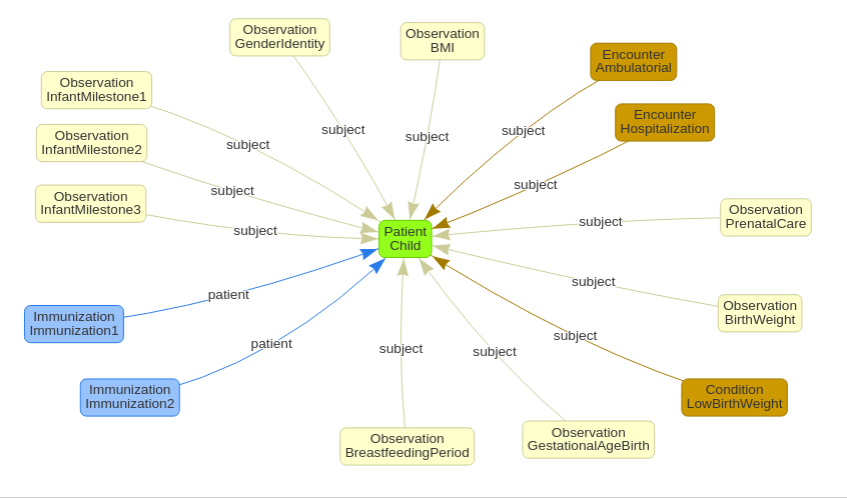
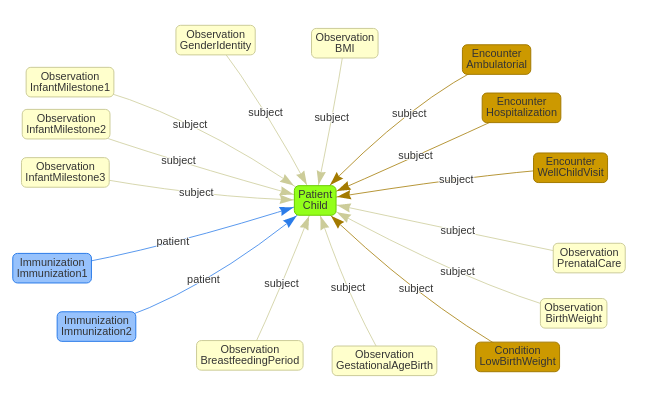
Add Encounter as a FHIR Resource to Developmental Milestones

diff --git a/central_database/docs/indicators.rst b/central_database/docs/indicators.rst
@@ -8,36 +8,38 @@ The table below relates the indicators to typical health-related data sources.
 The data required for the calculation of the indicators are mapped to HL7 FHIR Resources to ensure a minimal interoperability between health systems.
 
 
-+------------------------------------+----------------------------------------------------------------------+-------------------------+--------------------------------------------------------------------------------------------------------------------------------------------------------------------------------------------------------------+
-| Indicator                          |                         Potential data source                        | Potential FHIR Resource | Key FHIR elements                                                                                                                                                                                            |
-+====================================+======================================================================+=========================+==========================================+===================================================================================================================================================================+
++------------------------------------+----------------------------------------------------------------------+--------------------------------------------------------------------+-------------------------------------------------------------------------------------------------------------------------------------------------------------------+
+| Indicator                          |                         Potential data source                        | Potential FHIR Resource                                            | Key FHIR elements                                                                                                                                                 |
++====================================+======================================================================+====================================================================+===================================================================================================================================================================+
 | Prenatal care incomplete or absent | Mother's appointments, exams, immunizations, nutritional supplements | `Observation <https://www.hl7.org/fhir/observation.html>`_         | category: social-history, code: 1031000119109 (SNOMED, Insufficient prenatal care)                                                                                |
-|                                    |                                                                      +-------------------------+------------------------------------------+-------------------------------------------------------------------------------------------------------------------------------------------------------------------+
+|                                    |                                                                      +--------------------------------------------------------------------+-------------------------------------------------------------------------------------------------------------------------------------------------------------------+
 |                                    |                                                                      | `Condition <https://www.hl7.org/fhir/condition.html>`_             | code: 276610007 (SNOMED, Low birth weight infant (disorder))                                                                                                      |
-+------------------------------------+----------------------------------------------------------------------+-------------------------+------------------------------------------+-------------------------------------------------------------------------------------------------------------------------------------------------------------------+
++------------------------------------+----------------------------------------------------------------------+--------------------------------------------------------------------+-------------------------------------------------------------------------------------------------------------------------------------------------------------------+
 | Birth weight <= 2.500 g            | Weight measured at birth                                             | `Observation <https://www.hl7.org/fhir/observation.html>`_         | category: vital-signs, code: 8339-4 (LOINC, Birth weight Measured)                                                                                                |
-+------------------------------------+----------------------------------------------------------------------+-------------------------+------------------------------------------+-------------------------------------------------------------------------------------------------------------------------------------------------------------------+
++------------------------------------+----------------------------------------------------------------------+--------------------------------------------------------------------+-------------------------------------------------------------------------------------------------------------------------------------------------------------------+
 | Gestational age at birth < 37 wk   | Birth date, mother's last period date                                | `Observation <https://www.hl7.org/fhir/observation.html>`_         | category: vital-signs, code: 76516-4 (LOINC, Gestational age--at birth)                                                                                           |
-|                                    |                                                                      +-------------------------+------------------------------------------+-------------------------------------------------------------------------------------------------------------------------------------------------------------------+
+|                                    |                                                                      +--------------------------------------------------------------------+-------------------------------------------------------------------------------------------------------------------------------------------------------------------+
 |                                    |                                                                      | `Condition <https://www.hl7.org/fhir/condition.html>`_             | code: 412726003 (SNOMED, Fetal gestational age (observable entity))                                                                                               |
-+------------------------------------+----------------------------------------------------------------------+-------------------------+------------------------------------------+-------------------------------------------------------------------------------------------------------------------------------------------------------------------+
++------------------------------------+----------------------------------------------------------------------+--------------------------------------------------------------------+-------------------------------------------------------------------------------------------------------------------------------------------------------------------+
 | Breastfed < 3 mo                   | Appointment, mother report                                           | `Observation <https://www.hl7.org/fhir/observation.html>`_         | code: 169746009 (SNOMED, Breastfeeding stopped)                                                                                                                   |
-|                                    |                                                                      +-------------------------+------------------------------------------+-------------------------------------------------------------------------------------------------------------------------------------------------------------------+
+|                                    |                                                                      +--------------------------------------------------------------------+-------------------------------------------------------------------------------------------------------------------------------------------------------------------+
 |                                    |                                                                      | `Condition <https://www.hl7.org/fhir/condition.html>`_             | code: 169741004 (SNOMED, Breast fed (finding))                                                                                                                    |
-+------------------------------------+----------------------------------------------------------------------+-------------------------+------------------------------------------+-------------------------------------------------------------------------------------------------------------------------------------------------------------------+
++------------------------------------+----------------------------------------------------------------------+--------------------------------------------------------------------+-------------------------------------------------------------------------------------------------------------------------------------------------------------------+
 | Immunization schedule incomplete   | Immunization card                                                    | `Immunization <https://www.hl7.org/fhir/immunization.html>`_       | vaccineCode, occurrenceDateTime                                                                                                                                   |
-+------------------------------------+----------------------------------------------------------------------+-------------------------+------------------------------------------+-------------------------------------------------------------------------------------------------------------------------------------------------------------------+
++------------------------------------+----------------------------------------------------------------------+--------------------------------------------------------------------+-------------------------------------------------------------------------------------------------------------------------------------------------------------------+
 | Number of hospitalizations         | Hospital admission, patient records                                  | `Encounter <https://www.hl7.org/fhir/encounter.html>`_             | class: IMP | AMB | EMER | ACUTE,  type: 185345009 (SNOMED, Encounter for symptom) | 185347001 (SNOMED, Encounter for problem (procedure)                          |
-+------------------------------------+----------------------------------------------------------------------+-------------------------+------------------------------------------+-------------------------------------------------------------------------------------------------------------------------------------------------------------------+
++------------------------------------+----------------------------------------------------------------------+--------------------------------------------------------------------+-------------------------------------------------------------------------------------------------------------------------------------------------------------------+
 | Height/Weight/BMI                  | Body measures, doctor's appointment                                  | `Observation <https://www.hl7.org/fhir/observation.html>`_         | category: vital-signs, code: 39156-5 (LOINC, BMI) | 8302-2 (LOINC, Body height) | 29463-7 (LOINC, Body weight) |                                                  |
 |                                    |                                                                      |                                                                    | 9843-4 (LOINC, Weight-for-lenght per age and sex) | 59576-9 (LOINC, BMI per age and gender) | 9843-4 (LOINC, Head Occipital-frontal circumference)                |
-+------------------------------------+----------------------------------------------------------------------+-------------------------+------------------------------------------+-------------------------------------------------------------------------------------------------------------------------------------------------------------------+
++------------------------------------+----------------------------------------------------------------------+--------------------------------------------------------------------+-------------------------------------------------------------------------------------------------------------------------------------------------------------------+
 | Gender                             | Patient record                                                       | `Patient <https://www.hl7.org/fhir/patient.html>`_                 | gender: male | female | other | unknown                                                                                                                           |
-|                                    |                                                                      +-------------------------+------------------------------------------+-------------------------------------------------------------------------------------------------------------------------------------------------------------------+
+|                                    |                                                                      +--------------------------------------------------------------------+-------------------------------------------------------------------------------------------------------------------------------------------------------------------+
 |                                    |                                                                      | `Observation <https://www.hl7.org/fhir/observation.html>`_         | code: 76691-5 (LOINC, Gender identity)                                                                                                                            |
-+------------------------------------+----------------------------------------------------------------------+-------------------------+------------------------------------------+-------------------------------------------------------------------------------------------------------------------------------------------------------------------+
++------------------------------------+----------------------------------------------------------------------+--------------------------------------------------------------------+-------------------------------------------------------------------------------------------------------------------------------------------------------------------+
 | Developmental milestones           | Doctor's appointment, child card                                     | `Observation <https://www.hl7.org/fhir/observation.html>`_         | code: 364675009 (SNOMED, Feature of infant milestones (observable entity))                                                                                        |
-+------------------------------------+----------------------------------------------------------------------+-------------------------+------------------------------------------+-------------------------------------------------------------------------------------------------------------------------------------------------------------------+
+|                                    |                                                                      +--------------------------------------------------------------------+-------------------------------------------------------------------------------------------------------------------------------------------------------------------+
+|                                    |                                                                      | `Encounter <https://www.hl7.org/fhir/encounter.html>`_             | class: AMB, type: 410620009 (SNOMED, Well child visit (procedure))                                                                                                |
++------------------------------------+----------------------------------------------------------------------+--------------------------------------------------------------------+-------------------------------------------------------------------------------------------------------------------------------------------------------------------+
 
 .. figure:: fhirResources.png
    :scale: 100 %
